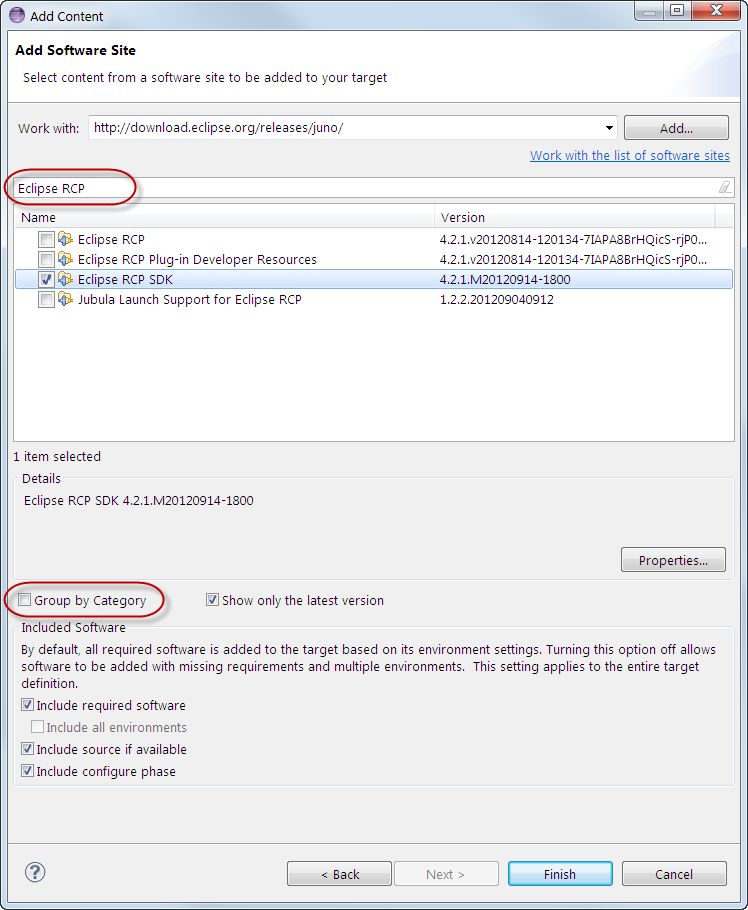
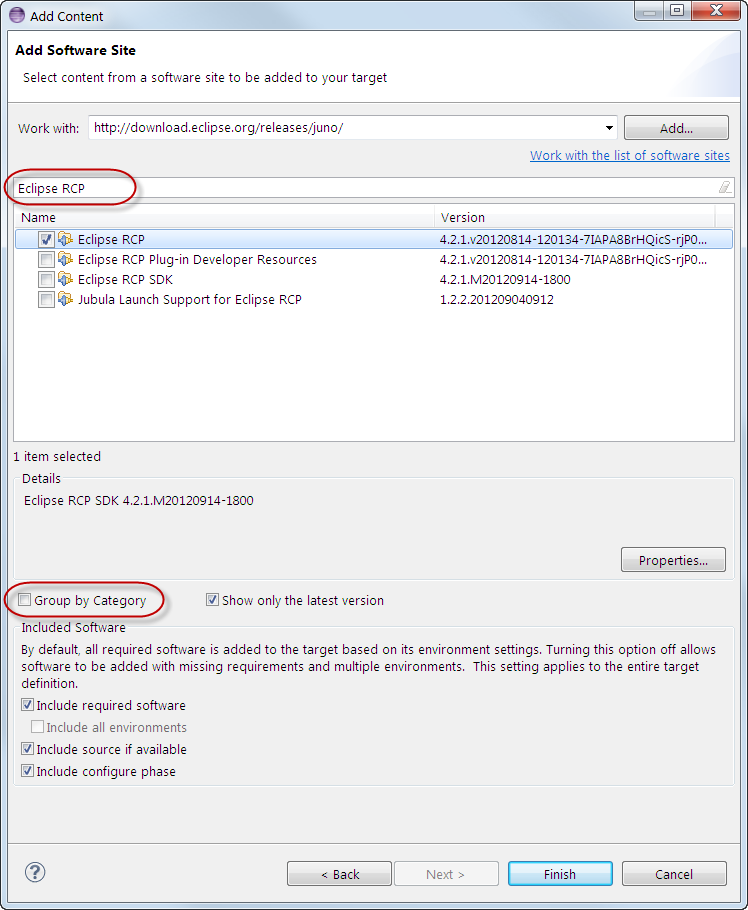
Use smaller Eclipse RCP feature in target

Changed region(s): [[0.0, 0.2462, 0.984, 0.3385]]

diff --git a/exercises/Exercise_06_Use_Target_File/tychodemo.parent/README.html b/exercises/Exercise_06_Use_Target_File/tychodemo.parent/README.html
@@ -67,7 +67,7 @@
 			</ul>
 		</li>
 
-		<li>In the editor for the <tt>tychodemo.target.target</tt>, add the <tt>Eclipse RCP SDK</tt> feature from the Juno repository <tt>http://download.eclipse.org/releases/juno/</tt>
+		<li>In the editor for the <tt>tychodemo.target.target</tt>, add the <tt>Eclipse RCP</tt> feature from the Juno repository <tt>http://download.eclipse.org/releases/juno/</tt>
 			<br/>Note: If you are not connected to the Internet, use <a href="../../../p2_repository">your local copy of the p2 repository from the USB stick</a> instead. This p2 repository contains a subset of the Juno repository. 
 			<ul>
 				<li>Click <tt>Add...</tt></li>
@@ -75,7 +75,7 @@
 					<br/><img src="../resources/new_location.png"/></li>
 				<li>In the <tt>Work with</tt> field, paste the URL <tt>http://download.eclipse.org/releases/juno/</tt> and press <tt>ENTER</tt>. Wait until the repository content is shown.
 					<br/><img src="../resources/add_feature_load_pending.png"/></li>
-				<li>Deselect <tt>Group by Category</tt>, enter <tt>Eclipse RCP</tt> in the filter text box and select the <tt>Eclipse RCP SDK</tt> feature. Hit <tt>Finish</tt>.
+				<li>Deselect <tt>Group by Category</tt>, enter <tt>Eclipse RCP</tt> in the filter text box and select the <tt>Eclipse RCP</tt> feature. Hit <tt>Finish</tt>.
 					<br/><img src="../resources/add_rcp_sdk_feature.png"/></li>
 			</ul>
 		</li>
